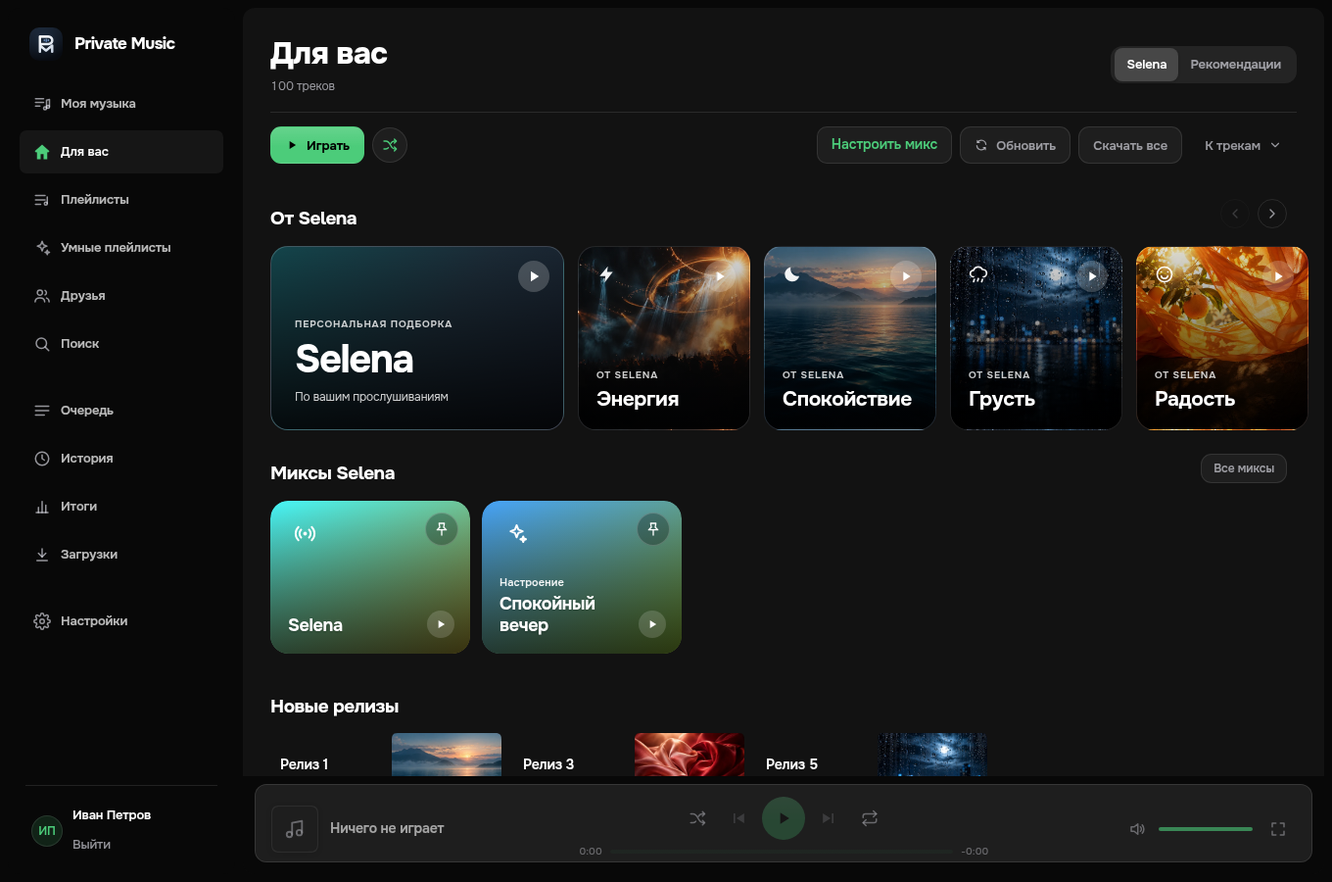
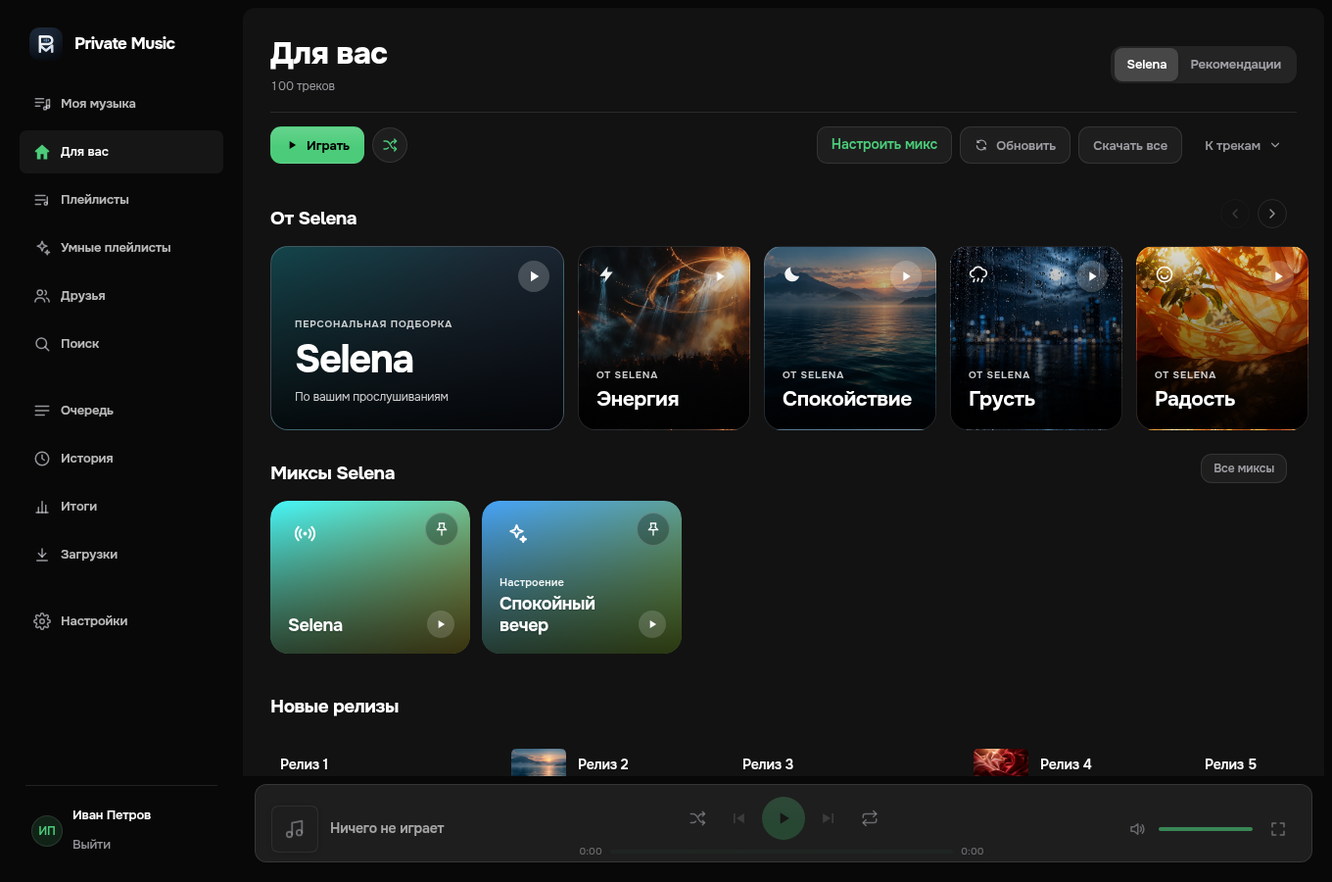
Подготовить 0.6.6: завершить интерфейс без заглушек и общий подписанный релиз

Changed region(s): [[0.2779, 0.8089, 0.6176, 0.9022], [0.6485, 0.8089, 0.8338, 0.9022], [0.8956, 0.84, 0.9574, 0.8711]]

diff --git a/ui/css/music.css b/ui/css/music.css
@@ -164,13 +164,26 @@ html .art-box { background: transparent; background-image: none; box-shadow: non
 html .art-box .art-ph { color: var(--text-2); }
 html .art-box[data-art="ready"] .art-ph { visibility: hidden; }
 html .row .art-box .art-ph { font-size: 13px; font-variant-numeric: tabular-nums; }
-/* Grids keep one rhythm: a collection without artwork shows its initial on a quiet surface. */
-html .card .art-box:is([data-art="missing"], [data-art="error"]) { background: var(--surface); }
-html .card .art-box:is([data-art="missing"], [data-art="error"]) .art-ph {
-  font-size: 40px; font-weight: 750; letter-spacing: -.5px; color: var(--text-2);
+/* Collections are content rows: artwork is optional, never a fake tile. */
+html .card.collection-card,
+html[data-layout="phone"] .card.collection-card {
+  display: grid; grid-template-columns: 56px minmax(0, 1fr); grid-template-rows: auto auto;
+  column-gap: 12px; row-gap: 4px; align-content: center; align-self: stretch;
+  min-height: 88px; padding: 10px; background: transparent; border: 0; box-shadow: none;
 }
-html .np-cover:has(.np-placeholder) { box-shadow: none; background: transparent; }
-html .np-placeholder { background: transparent; color: var(--text-2); font-size: clamp(48px, 16vw, 96px); font-weight: 750; }
+html .card.collection-card .card-art { grid-column: 1; grid-row: 1 / 3; width: 56px; height: 56px; align-self: center; }
+html .card.collection-card .name { grid-column: 2; grid-row: 1; align-self: end; margin: 0; }
+html .card.collection-card .count { grid-column: 2; grid-row: 2; align-self: start; margin: 0; white-space: normal; overflow-wrap: anywhere; display: -webkit-box; -webkit-line-clamp: 2; -webkit-box-orient: vertical; }
+html .card.collection-card:has(.art-box:is([data-art="missing"], [data-art="error"])) .card-art { display: none; }
+html .card.collection-card:has(.art-box:is([data-art="missing"], [data-art="error"])) :is(.name, .count) { grid-column: 1 / -1; }
+html .release-row .card.collection-card { width: 224px; }
+html .grid:has(> .collection-card),
+html[data-layout="phone"] .lib-grid { grid-template-columns: repeat(auto-fill, minmax(min(100%, 224px), 1fr)); }
+html .hero-art:has(.art-box:is([data-art="missing"], [data-art="error"])) { display: none; }
+/* With no cover, the title and controls remain the player content. */
+html .np-cover:has(.np-placeholder) { visibility: hidden; box-shadow: none; background: transparent; }
+html .np[data-mode="off"] .np-main:has(.np-placeholder) { display: flex; flex-direction: column; justify-content: center; }
+html .np[data-mode="off"] .np-cover:has(.np-placeholder) { display: none; }
 html[data-layout="phone"] .stage:has(.art-box[data-art="missing"], .art-box[data-art="error"]) { grid-template-columns: minmax(0, 1fr); grid-template-areas: "chip" "title" "start" "controls"; }
 html[data-layout="phone"] .stage-art:has(.art-box[data-art="missing"], .art-box[data-art="error"]) { display: none; }
 /* A short loading label avoids decorative skeletons and continuous repainting. */
@@ -199,9 +212,15 @@ html[data-layout="phone"] .stat-row .stat-count { padding-right: 12px; }
 html .sync-panel > label.set-inline { flex-wrap: nowrap; justify-content: flex-start; align-items: flex-start; gap: 10px; text-align: left; }
 html .sync-panel > label.set-inline > input { flex: none; margin-top: 2px; }
 
-/* Collection pages without artwork show the same quiet initial as their grid card. */
-html .hero-art .art-box:is([data-art="missing"], [data-art="error"]) { background: var(--surface); }
-html .hero-art .art-box:is([data-art="missing"], [data-art="error"]) .art-ph { font-size: 72px; font-weight: 750; color: var(--text-2); }
 /* Phone: sliders take their own line so the explanation keeps a readable width. */
 html[data-layout="phone"] .set-row:has(> .audio-range) { flex-wrap: wrap; }
 html[data-layout="phone"] .set-row > .audio-range { flex: 1 1 100%; min-width: 0; order: 2; }
+
+html .card.collection-card.artist-card { text-align: left; align-items: stretch; }
+html .card.collection-card.artist-card .name { text-align: left; grid-row: 1 / 3; align-self: center; }
+
+/* Leave a touch target for pinning without covering a collection title. */
+html[data-layout="phone"] .lib-grid:not(.list-layout) .lib-collection > .collection-card { padding-right: 54px; }
+html[data-layout="phone"] .lib-collection .lib-pin,
+html[data-layout="phone"] .lib-collection .lib-pin[aria-pressed="true"] { background: transparent; border: 0; box-shadow: none; }
+html[data-layout="phone"] :is(.lib-pinned, .lib-grid.list-layout) .lib-collection { border: 0; box-shadow: none; }

diff --git a/ui/js/views/playlists.js b/ui/js/views/playlists.js
@@ -18,7 +18,7 @@ import { allPlaylists, ensurePlaylists, isOwn, replacePlaylist, dropPlaylist, ch
 import { ensureAlbums, followedAlbums } from "../my-albums.js";
 import { albumCard } from "../album-card.js";
 import { openAlbum } from "../navigation.js";
-import { artBox, initial, paintStatus, backButton, headerOnScroll } from "../ui-parts.js";
+import { artBox, paintStatus, backButton, headerOnScroll } from "../ui-parts.js";
 import { enter } from "../motion.js";
 import { isSynced,setPlaylistSync,syncPlaylists } from "../playlist-sync.js";
 import { removeSelected } from "../batch-remove.js";
@@ -27,8 +27,8 @@ const sameTrack=(a,b)=>a.owner_id===b.owner_id && a.track_id===b.track_id;
 addStrings({ ru: { "pl.openLink": "Открыть по ссылке", "pl.link": "Ссылка на плейлист VK", "pl.linkInvalid": "Вставьте ссылку VK вида vk.com/music/playlist/-123_456 или vk.com/audio_playlist-123_456.", "pl.shared": "Плейлист по ссылке", "pl.follow": "Добавить в мои плейлисты", "pl.followed": "Плейлист добавлен" }, en: { "pl.openLink": "Open link", "pl.link": "VK playlist link", "pl.linkInvalid": "Paste a VK playlist link, such as vk.com/music/playlist/-123_456.", "pl.shared": "Shared playlist", "pl.follow": "Add to my playlists", "pl.followed": "Playlist added" } });
 
 export function playlistCard(playlist, open) {
-  const art = h("span", { class: "card-art art" }, artBox(playlist.artwork_url, { className: "fill", fallbackText: initial(playlist.title) }), h("span", { class: "play-chip" }, icon("play", 12)));
-  return h("button", { class: "card", type: "button", onclick: () => open(playlist) },
+  const art = h("span", { class: "card-art art" }, artBox(playlist.artwork_url, { className: "fill", fallbackText: "" }), h("span", { class: "play-chip" }, icon("play", 12)));
+  return h("button", { class: "card collection-card playlist-card", type: "button", onclick: () => open(playlist) },
     art,
     h("div", { class: "name", text: playlist.title }),
     h("div", { class: "count", text: tn("playlists.tracks", playlist.count) }));
@@ -59,7 +59,7 @@ export function createPlaylistsView({ play, onTrackAction, toast, openTrackMenu,
 
   const coverEditor=createCoverEditor({getPlaylist:()=>current,isSame:(a,b)=>!!a && !!b && same(a,b),toast,
     onBusy:busy=>{coverButton.disabled=busy;},
-    onSaved:async playlist=>{const account=accountId();forgetPlaylists();await ensurePlaylists();if(account===accountId() && current && same(current,playlist)){const fresh=allPlaylists().find(item=>same(item,playlist));if(fresh){current=fresh;detail.setCover(fresh.artwork_url, fresh.title);renderOwner();}}}});
+    onSaved:async playlist=>{const account=accountId();forgetPlaylists();await ensurePlaylists();if(account===accountId() && current && same(current,playlist)){const fresh=allPlaylists().find(item=>same(item,playlist));if(fresh){current=fresh;detail.setCover(fresh.artwork_url);renderOwner();}}}});
   const coverButton=h("button",{class:"icon-btn circle-btn playlist-cover",type:"button",title:t("cover.title"),"aria-label":t("cover.title"),onclick:()=>{if(current && isOwn(current))coverEditor.open(current);}},icon("image",18));
   const editButton = h("button", { class: "btn", type: "button", onclick: () => edit(), text: t("pl.edit") });
   const syncButton=h("button",{class:"btn",type:"button",text:ft("Сохранять офлайн"),onclick:async()=>{if(!current)return;try{setPlaylistSync(current,!isSynced(current));renderOwner();await syncPlaylists();}catch(error){toast(errorText(error),{error:true});}}});
@@ -109,7 +109,7 @@ export function createPlaylistsView({ play, onTrackAction, toast, openTrackMenu,
     renderGrid();
     if (current) {
       const fresh = allPlaylists().find((p) => same(p, current));
-      if (fresh) { current = fresh; detail.setTitle(fresh.title); detail.setNote(fresh.description ?? ""); }
+      if (fresh) { current = fresh; detail.setTitle(fresh.title); detail.setCover(fresh.artwork_url); detail.setNote(fresh.description ?? ""); }
     }
   });
   subscribe("session", renderOwner);
@@ -163,7 +163,7 @@ export function createPlaylistsView({ play, onTrackAction, toast, openTrackMenu,
     detail.element.hidden = false;
     enter(detail.element);
     detail.setTitle(playlist.title);
-    detail.setCover(playlist.artwork_url, playlist.title);
+    detail.setCover(playlist.artwork_url);
     detail.setNote(playlist.description ?? "");
     detail.setTracks([]);
     detail.setStatus(t("loading"));

diff --git a/ui-tests/artwork.test.js b/ui-tests/artwork.test.js
@@ -2,7 +2,7 @@ import assert from 'node:assert/strict';
 import test from 'node:test';
 import {openApp} from './harness.js';
 
-test('artwork: missing covers keep row height, numbering, and a uniform card grid with the collection initial', async()=>{
+test('artwork: missing covers keep row height, numbering, and collection titles without artificial covers', async()=>{
   const app=await openApp({config:{signedIn:true,platform:'android'},phone:'small'});
   try {
     const result=await app.page.evaluate(async()=>{
@@ -13,10 +13,10 @@ test('artwork: missing covers keep row height, numbering, and a uniform card gri
       const container=document.createElement('div');
       container.append(row,card);document.querySelector('.home-body').append(container);
       const result={number:row.querySelector('.art-ph').textContent,height:row.getBoundingClientRect().height,
-        artwork:getComputedStyle(card.querySelector('.card-art')).display,letter:card.querySelector('.art-ph').textContent,square:Math.round(card.querySelector('.card-art').getBoundingClientRect().width)===Math.round(card.querySelector('.card-art').getBoundingClientRect().height),title:card.querySelector('.name').textContent};
+        artwork:getComputedStyle(card.querySelector('.card-art')).display,letter:card.querySelector('.art-ph').textContent,title:card.querySelector('.name').textContent};
       container.remove();return result;
     });
-    assert.deepEqual(result,{number:'7',height:56,artwork:'block',letter:'А',square:true,title:'Альбом без обложки'});
+    assert.deepEqual(result,{number:'7',height:56,artwork:'none',letter:'',title:'Альбом без обложки'});
     assert.deepEqual(app.problems,[]);
   } finally {await app.close();}
 });
@@ -49,12 +49,27 @@ test('player artwork: a broken next cover cannot restore a stale image after dec
       const {store}=await import('/js/store.js');
       window.__mock.emit('pm-event',{type:'state',...store.player,track:{...store.player.track,title:'Следующий',artist:'Новый исполнитель',artwork_url:location.origin+'/broken-next-cover.jpg'}});
     });
-    await page.locator('.np-cover .np-placeholder').waitFor();
+    await page.locator('.np-cover .np-placeholder').waitFor({state:'attached'});
     await page.waitForTimeout(550);
     assert.equal(await page.locator('.np-cover img').count(),0);
-    assert.equal(await page.locator('.np-placeholder').textContent(),'Н');
+    assert.equal(await page.locator('.np-placeholder').textContent(),'');
+    assert.equal(await page.locator('.np-cover').isVisible(),false);
     assert.equal(await page.locator('.np-backdrop .show').count(),0);
     assert.equal(await page.locator('.np-title').textContent(),'Следующий');
     assert.deepEqual(app.problems,[]);
   }finally{await app.close();}
+});
+
+for(const colorScheme of ['dark','light'])test(`collection rows retain real covers and align text without placeholder tiles (${colorScheme})`,async()=>{
+ const app=await openApp({config:{signedIn:true},phone:'small',colorScheme});
+ try{const result=await app.page.evaluate(async()=>{
+  const {albumCard}=await import('/js/album-card.js');
+  const container=document.createElement('div');container.className='release-row';
+  const album={title:'Альбом',artists:[],year:2026};
+  const missing=albumCard(album,()=>{}),real=albumCard({...album,artwork_url:'/assets/discovery-love.webp'},()=>{});
+  container.append(missing,real);document.querySelector('.home-body').append(container);real.scrollIntoView();real.querySelector('img').loading='eager';await real.querySelector('img').decode();
+  const result={missingArt:getComputedStyle(missing.querySelector('.card-art')).display,realArt:getComputedStyle(real.querySelector('.card-art')).display,realSize:real.querySelector('.card-art').getBoundingClientRect().width,
+   sameHeight:Math.abs(real.getBoundingClientRect().height-missing.getBoundingClientRect().height)<1,minHeight:missing.getBoundingClientRect().height};container.remove();return result;
+ });assert.equal(result.missingArt,'none');assert.equal(result.realArt,'block');assert.equal(result.realSize,56);assert.equal(result.sameHeight,true);assert.ok(result.minHeight>=88);assert.deepEqual(app.problems,[]);
+ }finally{await app.close();}
 });

diff --git a/ui-tests/interface-regressions.test.js b/ui-tests/interface-regressions.test.js
@@ -116,3 +116,29 @@ test('idle desktop: no "-0:00", empty queue has no dead buttons, sync checkbox s
   assert.ok(gap>=0 && gap<24,String(gap));assert.deepEqual(app.problems,[]);
  }finally{await app.close();}
 });
+
+test('renaming a coverless playlist refreshes the heading and title; new artwork metadata replaces the absent cover',async()=>{
+ const app=await openApp({config:{...config,platform:'android'},phone:'small'});
+ try{const {page}=app;
+  await page.locator('.dock-tab[data-tab="library"]').click();await page.locator('.lib-sections [data-section="playlists"]').click();await page.locator('.lib-grid .card').first().click();
+  await page.locator('.pl-owner .btn').filter({hasText:'Изменить'}).click();await page.locator('dialog input[name="title"]').fill('Новое название');await page.locator('dialog button[type="submit"]').click();
+  await page.waitForFunction(()=>document.title==='Новое название — Private Music');
+  const art=page.locator('.main > .view:not([hidden]) .hero-art').filter({visible:true});
+  assert.equal(await art.count(),0);
+  await page.evaluate(async()=>{const {allPlaylists,replacePlaylist}=await import('/js/my-playlists.js');const playlist=allPlaylists().find(p=>p.title==='Новое название');replacePlaylist({...playlist,artwork_url:'https://cdn.example/updated-cover.jpg'});});
+  const cover=page.locator('.main > .view:not([hidden]) .hero-art img[src="https://cdn.example/updated-cover.jpg"]');await cover.waitFor();
+  assert.deepEqual(app.problems,[]);
+ }finally{await app.close();}
+});
+
+for(const width of [320,412])test(`collection pin controls clear long titles at enlarged text (${width})`,async()=>{
+ const app=await openApp({config:{...config,platform:'android'},phone:{viewport:{width,height:740}}});
+ try{const {page}=app;await page.evaluate(()=>localStorage.setItem('pm.settings.v1',JSON.stringify({textScale:'extraLarge'})));await page.reload();
+  await page.locator('.dock-tab[data-tab="library"]').click();await page.locator('.lib-sections [data-section="playlists"]').click();await page.locator('.lib-grid .collection-card').first().waitFor();
+  await page.evaluate(async()=>{const {allPlaylists,replacePlaylist}=await import('/js/my-playlists.js');replacePlaylist({...allPlaylists()[0],title:'Очень длинное название любимой музыкальной коллекции'});});
+  for(const layout of ['grid','list']){
+   const issues=await page.locator('.lib-grid:not([hidden]) .lib-collection').evaluateAll(items=>items.flatMap(item=>{const title=item.querySelector('.name').getBoundingClientRect(),pin=item.querySelector('.lib-pin').getBoundingClientRect();return Math.min(title.right,pin.right)>Math.max(title.left,pin.left)+1 && Math.min(title.bottom,pin.bottom)>Math.max(title.top,pin.top)+1 ? ['title overlaps pin'] : [];}));
+   assert.deepEqual(issues,[],layout);if(layout==='grid')await page.locator('.lib-layout[data-layout-kind="playlist"]').click();
+  }assert.deepEqual(app.problems,[]);
+ }finally{await app.close();}
+});

diff --git a/ui/js/album-card.js b/ui/js/album-card.js
@@ -1,16 +1,16 @@
 import { h } from "./dom.js";
 import { icon } from "./icons.js";
 import { tn } from "./i18n.js";
-import { artBox, initial } from "./ui-parts.js";
+import { artBox } from "./ui-parts.js";
 
 const artistLine = (album) => album.artists.map((a) => a.name).join(", ");
 
 /** Релиз в сетке: обложка, название и год или исполнитель под ним. */
 export function albumCard(album, open, { showArtist = true } = {}) {
-  const art = h("span", { class: "card-art art" }, artBox(album.artwork_url, { className: "fill", fallbackText: initial(album.title) }), h("span", { class: "play-chip" }, icon("play", 12)));
+  const art = h("span", { class: "card-art art" }, artBox(album.artwork_url, { className: "fill", fallbackText: "" }), h("span", { class: "play-chip" }, icon("play", 12)));
   const details = [album.year, showArtist ? artistLine(album) : null, !showArtist && album.count ? tn("album.count", album.count) : null]
     .filter(Boolean).join(" · ");
-  return h("button", { class: "card album-card", type: "button", onclick: () => open(album) },
+  return h("button", { class: "card collection-card album-card", type: "button", onclick: () => open(album) },
     art,
     h("div", { class: "name", text: album.title }),
     h("div", { class: "count", text: details }));
@@ -18,8 +18,8 @@ export function albumCard(album, open, { showArtist = true } = {}) {
 
 /** Художник в сетке: круглое фото и имя. */
 export function artistCard(artist, open) {
-  const art = h("span", { class: "card-art art" }, artBox(artist.photo_url, { glyph: "artist", size: 36, className: "fill round" }));
-  return h("button", { class: "card artist-card", type: "button", onclick: () => open(artist) },
+  const art = h("span", { class: "card-art art" }, artBox(artist.photo_url, { fallbackText: "", className: "fill round" }));
+  return h("button", { class: "card collection-card artist-card", type: "button", onclick: () => open(artist) },
     art,
     h("div", { class: "name", text: artist.name }));
 }

diff --git a/ui/js/now-playing.js b/ui/js/now-playing.js
@@ -307,7 +307,7 @@ export function createNowPlaying({ settings, onSettingsChange, onLike, onMenu })
     if (url) {
       let failed = false;
       const image = h("img", { src: url, alt: "", decoding: "async", referrerpolicy: "no-referrer", draggable: "false" });
-      image.addEventListener("error", () => { failed = true; if (token === paletteToken) coverBox.replaceChildren(h("div", { class: "np-placeholder", "aria-hidden": "true", text: (track?.artist || track?.title || "♪").slice(0, 1) })); });
+      image.addEventListener("error", () => { failed = true; if (token === paletteToken) coverBox.replaceChildren(h("div", { class: "np-placeholder", "aria-hidden": "true" })); });
       // Старая обложка остается до тех пор, пока не раскодируется новая.
       // Новая обложка проявляется поверх старой (кроссфейд), затем старая убирается.
       const swap = () => {
@@ -320,7 +320,7 @@ export function createNowPlaying({ settings, onSettingsChange, onLike, onMenu })
       };
       if (coverBox.firstChild) image.decode().catch(() => {}).finally(swap); else swap();
     } else {
-      coverBox.replaceChildren(h("div", { class: "np-placeholder", "aria-hidden": "true", text: (track?.artist || track?.title || "♪").slice(0, 1) }));
+      coverBox.replaceChildren(h("div", { class: "np-placeholder", "aria-hidden": "true" }));
     }
     setBackdrop(url);
     const [a, b] = fallbackColors(track);

diff --git a/ui/js/tracks-screen.js b/ui/js/tracks-screen.js
@@ -9,7 +9,7 @@ import { trackKey } from "./api.js";
 import { isLiked, isBusy } from "./likes.js";
 import { isDownloaded, isDownloading, downloadAll, downloadJob, cancelDownloads } from "./downloads.js";
 import { openArtistOf } from "./navigation.js";
-import { artBox, paintStatus, pageHero, searchField, headerOnScroll, setAmbience, fillPanel, initial } from "./ui-parts.js";
+import { artBox, paintStatus, pageHero, searchField, headerOnScroll, setAmbience, fillPanel } from "./ui-parts.js";
 
 /**
  * Общий экран для каждого списка треков: заголовок, дополнительный фильтр, строка состояния и
@@ -230,7 +230,7 @@ export function createTracksScreen({ title, filterable = false, playable = true,
     header,
     setTitle(text) { heading.textContent = text; },
     setKicker(text) { const node = header.querySelector(".kicker"); if (node) node.textContent = text; },
-    setCover(url, title) { heroArt?.replaceChildren(artBox(url, title ? { fallbackText: initial(title) } : { glyph: "playlist", size: 40 })); if (hero) setAmbience(header, url); },
+    setCover(url) { heroArt?.replaceChildren(artBox(url, { fallbackText: "" })); if (hero) setAmbience(header, url); },
     setNote(text) { if (note) { note.textContent = text ?? ""; note.hidden = !text; } },
     setTracks(tracks, { preserveScroll = false } = {}) {
       all = tracks;

diff --git a/ui/js/mobile/home.js b/ui/js/mobile/home.js
@@ -163,8 +163,8 @@ export function createHomeView({ play, onTrackAction, toast, openTrackMenu, like
       const tracks = entries.map((entry) => entry.track).slice(0, RECENT);
       recentSection.hidden = tracks.length === 0;
       recentRow.replaceChildren(...tracks.map((track, index) => {
-        const card = h("button", { class: "card track-card", type: "button", onclick: () => play(tracks, index, { shuffle: false }) },
-          h("span", { class: "card-art art" }, artBox(track.artwork_url, { size: 30, className: "fill" })),
+        const card = h("button", { class: "card collection-card track-card", type: "button", onclick: () => play(tracks, index, { shuffle: false }) },
+          h("span", { class: "card-art art" }, artBox(track.artwork_url, { fallbackText: "", className: "fill" })),
           h("div", { class: "name", text: track.title }),
           h("div", { class: "count", text: track.artist }));
         card.addEventListener("contextmenu", (event) => { event.preventDefault(); openTrackMenu(track, { x: event.clientX, y: event.clientY }); });

diff --git a/ui/js/views/album.js b/ui/js/views/album.js
@@ -3,7 +3,7 @@ import { linkControls } from "../sharing.js";
 import { api } from "../api.js";
 import { createTracksScreen } from "../tracks-screen.js";
 import { errorText, t, tn } from "../i18n.js";
-import { artBox, backButton, pageHero, headerOnScroll, setAmbience, initial } from "../ui-parts.js";
+import { artBox, backButton, pageHero, headerOnScroll, setAmbience } from "../ui-parts.js";
 import { h } from "../dom.js";
 import { icon } from "../icons.js";
 import { subscribe } from "../store.js";
@@ -63,7 +63,7 @@ export function createAlbumView({ play, onTrackAction, toast, back }) {
   function render() {
     links.refresh();
     title.textContent = album.title;
-    cover.replaceChildren(artBox(album.artwork_url, { fallbackText: initial(album.title) }));
+    cover.replaceChildren(artBox(album.artwork_url, { fallbackText: "" }));
     setAmbience(head, album.artwork_url);
     artists.replaceChildren(...album.artists.flatMap((artist, i) => [
       i ? ", " : null,

diff --git a/ui-tests/phone-screen-walk.js b/ui-tests/phone-screen-walk.js
@@ -72,7 +72,7 @@ export async function everyPhoneScreen(page, check) {
   await back(); await back();
   await tap(page, '.lib-sections [data-section="playlists"]');
   await tap(page, ".lib-grid .card");
-  await see(page, ".main > .view:not([hidden]) .hero-art");
+  await see(page, ".main > .view:not([hidden]) h1");
   await page.waitForTimeout(300);
   await check("playlist");
   await back();
@@ -87,7 +87,7 @@ export async function everyPhoneScreen(page, check) {
   await tap(page, '.tabs [data-tab="albums"]');
   await see(page, ".grid .card");
   await tap(page, ".grid .card");
-  await see(page, ".main > .view:not([hidden]) .hero-art");
+  await see(page, ".main > .view:not([hidden]) h1");
   await page.waitForTimeout(300);
   await check("album");
   await tap(page, ".page-artists .link-text");

diff --git a/ui/js/views/friends.js b/ui/js/views/friends.js
@@ -188,7 +188,7 @@ export function createFriendsView({ play, onTrackAction, toast }) {
     playlistScreen.hidden = false;
     enter(playlistScreen);
     playlistTracks.setTitle(playlist.title);
-    playlistTracks.setCover(playlist.artwork_url, playlist.title);
+    playlistTracks.setCover(playlist.artwork_url);
     playlistTracks.setNote(playlist.description ?? "");
     playlistTracks.setTracks([]);
     playlistTracks.setStatus(t("loading"));

diff --git a/ui/js/ui-parts.js b/ui/js/ui-parts.js
@@ -167,8 +167,3 @@ export async function setAmbience(header, url) {
     if (token === header._ambience) header.classList.remove("has-amb");
   }
 }
-
-/** First visible letter of a title, used when a collection has no artwork. */
-export function initial(text) {
-  return Array.from(String(text ?? "").trim())[0]?.toLocaleUpperCase() || "♪";
-}
